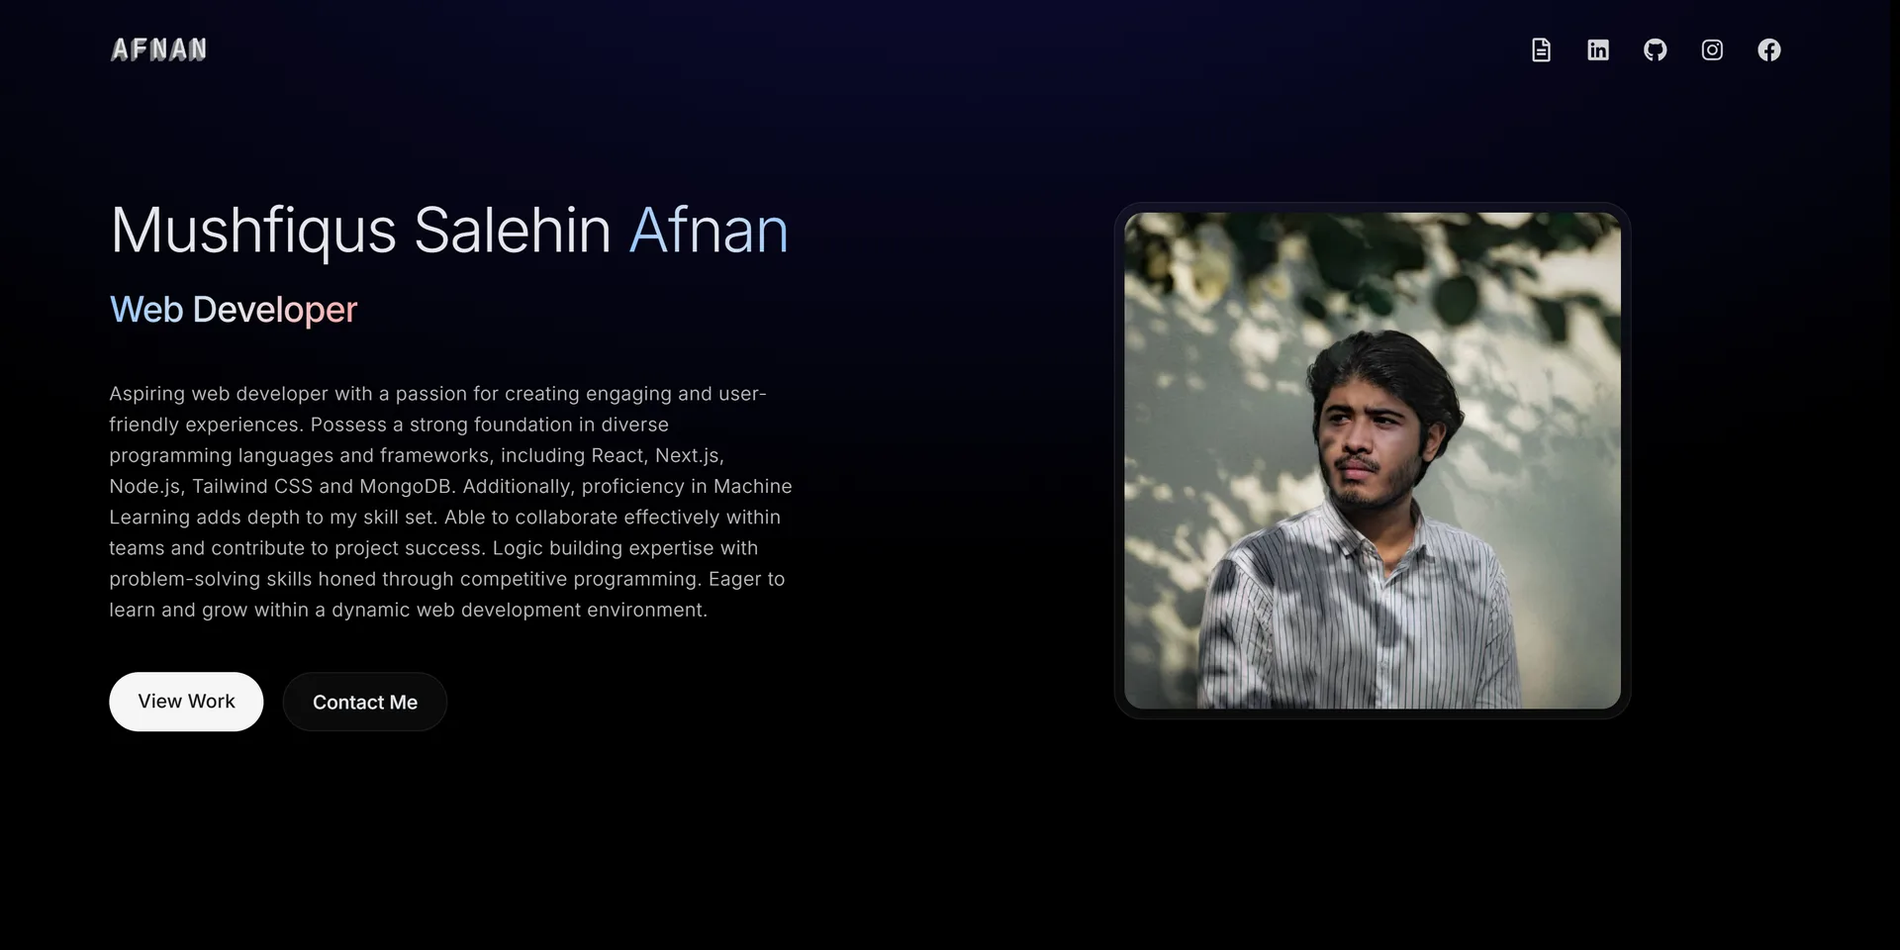
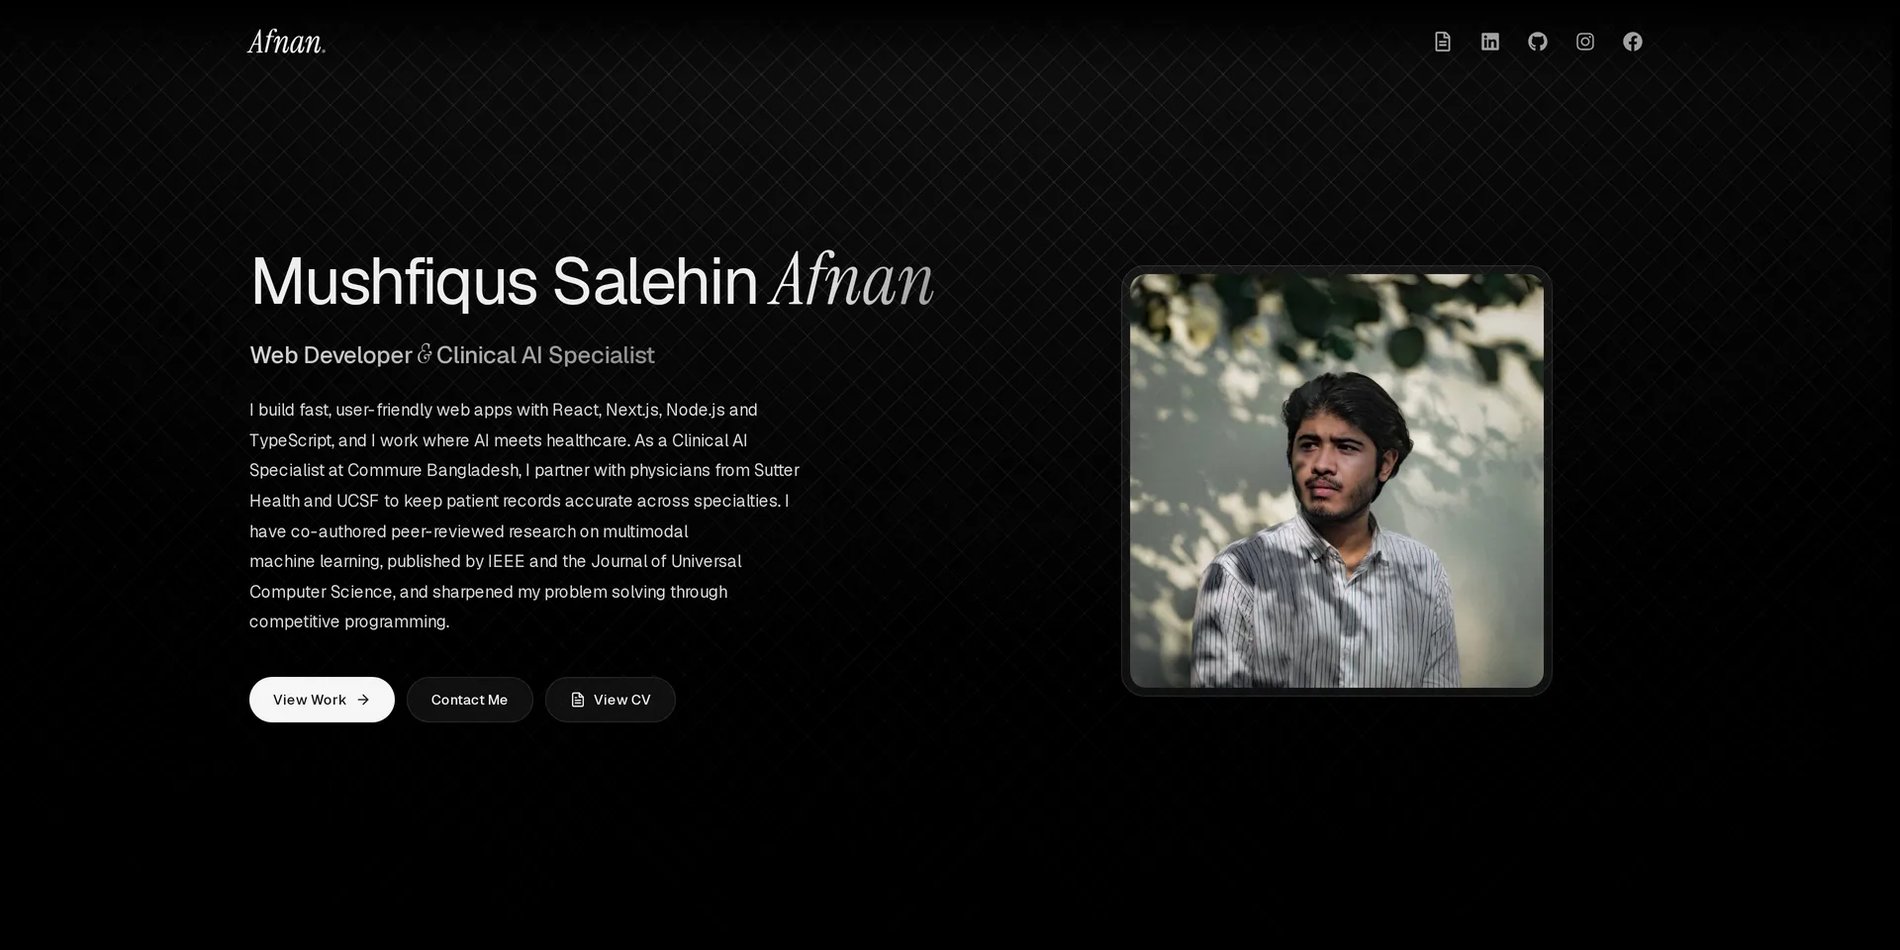
style: refine the type scale and colour tiers, refresh screenshots
Typography
- Section headings move to a larger medium weight with a numbered
  mono eyebrow above each one (01 — Introduction … 07 — Contact).
- Serif italic ampersand in the hero role line and the
  Certifications & Activities heading.
- Publication venues are set in the serif italic.
- Card titles brighten to neutral-50; mono labels share one
  size and tracking; the footer steps down a tier.
- Headings balance their lines and paragraphs avoid orphans.

Screenshots
- Portfolio card shows the current hero.
- Sepia card shows the rebuilt v2 app; its stack now lists
  Redux Toolkit and Tailwind CSS.

diff --git a/src/components/Projects.tsx b/src/components/Projects.tsx
@@ -50,7 +50,9 @@ const Projects = () => {
 
   return (
     <section id="projects" aria-labelledby="projects-heading" className="py-16 sm:py-20">
-      <SectionHeading id="projects-heading">Projects</SectionHeading>
+      <SectionHeading id="projects-heading" eyebrow="06 — Selected work">
+        Projects
+      </SectionHeading>
 
       <ul className="mx-auto grid max-w-6xl grid-cols-1 gap-8 md:grid-cols-2 lg:gap-12">
         <li data-reveal className="md:col-span-2">
@@ -64,9 +66,15 @@ const Projects = () => {
               />
             </div>
             <div className="flex grow flex-col p-6 sm:p-8 xl:justify-center xl:p-10">
-              <p className="mb-3 font-mono text-xs font-medium tracking-widest text-neutral-400 uppercase">Latest project</p>
-              <h3 className="mb-3 text-2xl font-semibold tracking-tight sm:text-3xl">{featured.title}</h3>
-              <p className="mb-6 max-w-2xl text-[0.9375rem] leading-relaxed text-neutral-400">{featured.description}</p>
+              <p className="mb-3 font-mono text-[0.6875rem] font-medium tracking-[0.16em] text-neutral-400 uppercase">
+                Latest project
+              </p>
+              <h3 className="mb-3 text-[1.75rem] leading-none font-medium tracking-[-0.02em] text-neutral-50 sm:text-[2rem]">
+                {featured.title}
+              </h3>
+              <p className="mb-6 max-w-2xl text-[0.9375rem] leading-relaxed text-pretty text-neutral-400">
+                {featured.description}
+              </p>
               <TechTags technologies={featured.technologies} />
               <ProjectLinks project={featured} />
             </div>
@@ -82,8 +90,10 @@ const Projects = () => {
             <article className="glass-card group flex h-full flex-col overflow-hidden rounded-3xl transition-shadow duration-500 hover:shadow-[0_0_30px_rgba(255,255,255,0.06)]">
               <ProjectPreview image={project.image} title={project.title} />
               <div className="flex grow flex-col p-6 sm:p-8">
-                <h3 className="mb-3 text-xl font-semibold tracking-tight">{project.title}</h3>
-                <p className="mb-6 grow text-[0.9375rem] leading-relaxed text-neutral-400">{project.description}</p>
+                <h3 className="mb-3 text-xl font-semibold tracking-tight text-balance text-neutral-50">{project.title}</h3>
+                <p className="mb-6 grow text-[0.9375rem] leading-relaxed text-pretty text-neutral-400">
+                  {project.description}
+                </p>
                 <TechTags technologies={project.technologies} />
                 <ProjectLinks project={project} />
               </div>
@@ -93,7 +103,10 @@ const Projects = () => {
       </ul>
 
       <div className="mx-auto mt-20 max-w-6xl sm:mt-24">
-        <h3 data-reveal="down" className="mb-10 text-center text-2xl font-semibold tracking-tight sm:mb-12 sm:text-3xl">
+        <h3
+          data-reveal="down"
+          className="mb-10 text-center text-2xl font-medium tracking-[-0.02em] text-neutral-50 sm:mb-12 sm:text-[1.75rem]"
+        >
           More on GitHub
         </h3>
         <ul className="grid grid-cols-1 gap-4 sm:grid-cols-2 sm:gap-6 lg:grid-cols-3">
@@ -105,7 +118,7 @@ const Projects = () => {
             >
               <article className="glass-card group relative flex h-full flex-col rounded-2xl p-6 transition-colors duration-300 hover:border-white/15 hover:bg-white/3">
                 <div className="mb-5 flex items-center gap-3">
-                  <FiFolder aria-hidden="true" className="size-6 text-neutral-300" />
+                  <FiFolder aria-hidden="true" className="size-6 text-neutral-400" />
                   {repo.team && (
                     <span className="rounded-full border border-neutral-700 px-2.5 py-0.5 text-[0.6875rem] font-medium text-neutral-400">
                       Team project
@@ -116,7 +129,7 @@ const Projects = () => {
                     className="ml-auto size-5 text-neutral-500 transition-[color,translate] duration-300 group-hover:translate-x-0.5 group-hover:-translate-y-0.5 group-hover:text-neutral-100"
                   />
                 </div>
-                <h4 className="mb-2 font-semibold tracking-tight text-neutral-100">
+                <h4 className="mb-2 font-semibold tracking-tight text-balance text-neutral-50">
                   {/* Stretched link: the whole card is clickable, but only the title is announced. */}
                   <a
                     href={repo.source}
@@ -128,8 +141,8 @@ const Projects = () => {
                     <span className="sr-only"> on GitHub</span>
                   </a>
                 </h4>
-                <p className="mb-5 grow text-sm leading-relaxed text-neutral-400">{repo.description}</p>
-                <ul className="flex flex-wrap gap-x-3 gap-y-1 font-mono text-[0.6875rem] text-neutral-400">
+                <p className="mb-5 grow text-sm leading-relaxed text-pretty text-neutral-400">{repo.description}</p>
+                <ul className="flex flex-wrap gap-x-3 gap-y-1 font-mono text-[0.6875rem] tracking-wide text-neutral-400">
                   {repo.technologies.map((tech) => (
                     <li key={tech}>{tech}</li>
                   ))}

diff --git a/src/components/Education.tsx b/src/components/Education.tsx
@@ -1,7 +1,7 @@
 import { FiAward, FiCamera, FiCode, FiGlobe } from "react-icons/fi";
 import { CREDENTIALS, EDUCATION, type Credential } from "../constants";
 import LinkPill from "./LinkPill";
-import SectionHeading from "./SectionHeading";
+import SectionHeading, { Amp } from "./SectionHeading";
 
 const ICONS: Record<Credential["kind"], typeof FiAward> = {
   certificate: FiAward,
@@ -13,14 +13,20 @@ const ICONS: Record<Credential["kind"], typeof FiAward> = {
 const Education = () => {
   return (
     <section id="education" aria-labelledby="education-heading" className="py-16 sm:py-20">
-      <SectionHeading id="education-heading">Education</SectionHeading>
+      <SectionHeading id="education-heading" eyebrow="04 — Academics">
+        Education
+      </SectionHeading>
       <div data-reveal className="mx-auto max-w-4xl">
         <article className="glass-card flex flex-col gap-3 rounded-3xl p-6 transition-colors hover:bg-white/3 sm:p-8 md:flex-row md:gap-8">
-          <p className="shrink-0 font-mono text-xs tracking-wider text-balance text-neutral-400 uppercase md:w-1/4 md:pt-1.5">{EDUCATION.period.replace(" – ", " – ")}</p>
+          <p className="shrink-0 font-mono text-[0.6875rem] tracking-[0.16em] text-balance text-neutral-400 uppercase md:w-1/4 md:pt-2">
+            {EDUCATION.period}
+          </p>
           <div className="md:w-3/4">
-            <h3 className="text-lg font-semibold tracking-tight text-neutral-200 sm:text-xl">{EDUCATION.degree}</h3>
+            <h3 className="text-lg font-semibold tracking-tight text-balance text-neutral-50 sm:text-xl">
+              {EDUCATION.degree}
+            </h3>
             <p className="mt-1 text-sm font-medium text-neutral-300 sm:text-base">{EDUCATION.school}</p>
-            <p className="mt-3 text-[0.9375rem] leading-relaxed text-neutral-400">{EDUCATION.description}</p>
+            <p className="mt-3 text-[0.9375rem] leading-relaxed text-pretty text-neutral-400">{EDUCATION.description}</p>
             <div className="mt-4">
               <LinkPill href={EDUCATION.certificate}>
                 Certificate<span className="sr-only">: {EDUCATION.degree}</span>
@@ -31,8 +37,11 @@ const Education = () => {
       </div>
 
       <div className="mx-auto mt-20 max-w-6xl sm:mt-24">
-        <h3 data-reveal="down" className="mb-10 text-center text-2xl font-semibold tracking-tight sm:mb-12 sm:text-3xl">
-          Certifications &amp; Activities
+        <h3
+          data-reveal="down"
+          className="mb-10 text-center text-2xl font-medium tracking-[-0.02em] text-neutral-50 sm:mb-12 sm:text-[1.75rem]"
+        >
+          Certifications <Amp className="text-neutral-500" /> Activities
         </h3>
         <ul className="grid grid-cols-1 gap-4 sm:grid-cols-2 sm:gap-6 lg:grid-cols-3">
           {CREDENTIALS.map((credential, index) => {
@@ -44,8 +53,8 @@ const Education = () => {
                 style={{ "--reveal-delay": `${(index % 3) * 100}ms` } as React.CSSProperties}
               >
                 <article className="glass-card flex h-full flex-col rounded-2xl p-6">
-                  <Icon aria-hidden="true" className="mb-5 size-6 text-neutral-300" />
-                  <h4 className="mb-1 font-semibold tracking-tight text-neutral-100">{credential.title}</h4>
+                  <Icon aria-hidden="true" className="mb-5 size-6 text-neutral-400" />
+                  <h4 className="mb-1 font-semibold tracking-tight text-balance text-neutral-50">{credential.title}</h4>
                   <p className="grow text-sm leading-relaxed text-neutral-400">{credential.detail}</p>
                   {credential.links.length > 0 && (
                     <div className="mt-5 flex flex-wrap gap-2">

diff --git a/src/components/Publication.tsx b/src/components/Publication.tsx
@@ -6,14 +6,20 @@ import SectionHeading from "./SectionHeading";
 const Publication = () => {
   return (
     <section id="publications" aria-labelledby="publications-heading" className="py-16 sm:py-20">
-      <SectionHeading id="publications-heading">Publications</SectionHeading>
+      <SectionHeading id="publications-heading" eyebrow="05 — Research">
+        Publications
+      </SectionHeading>
       <ol className="mx-auto max-w-4xl space-y-6 sm:space-y-8">
         {PUBLICATIONS.map((pub, index) => (
           <li key={pub.title} data-reveal style={{ "--reveal-delay": `${index * 100}ms` } as React.CSSProperties}>
             <article className="glass-card flex flex-col gap-3 rounded-3xl p-6 transition-colors hover:bg-white/3 sm:p-8 md:flex-row md:gap-8">
-              <p className="shrink-0 font-mono text-xs tracking-wider text-balance text-neutral-400 uppercase md:w-1/4 md:pt-1.5">{pub.date}</p>
+              <p className="shrink-0 font-mono text-[0.6875rem] tracking-[0.16em] text-balance text-neutral-400 uppercase md:w-1/4 md:pt-2">
+                {pub.date}
+              </p>
               <div className="md:w-3/4">
-                <h3 className="text-lg leading-snug font-semibold tracking-tight text-neutral-200 sm:text-xl">{pub.title}</h3>
+                <h3 className="text-lg leading-snug font-semibold tracking-tight text-balance text-neutral-50 sm:text-xl">
+                  {pub.title}
+                </h3>
                 <p className="mt-2 text-sm text-neutral-400">
                   {pub.authors.map((author, i) => (
                     <Fragment key={author}>
@@ -22,8 +28,8 @@ const Publication = () => {
                     </Fragment>
                   ))}
                 </p>
-                <p className="mt-1 text-sm text-neutral-400 italic">{pub.venue}</p>
-                <p className="mt-3 text-[0.9375rem] leading-relaxed text-neutral-400">{pub.description}</p>
+                <p className="mt-1.5 font-serif text-[1.0625rem] leading-snug text-neutral-400 italic">{pub.venue}</p>
+                <p className="mt-3 text-[0.9375rem] leading-relaxed text-pretty text-neutral-400">{pub.description}</p>
                 <div className="mt-4 flex flex-wrap items-center gap-2">
                   <span className="rounded-full border border-neutral-700 bg-neutral-800/60 px-3 py-1 text-xs font-medium text-neutral-100">
                     {pub.publisher}

diff --git a/src/components/Experience.tsx b/src/components/Experience.tsx
@@ -5,7 +5,9 @@ import SectionHeading from "./SectionHeading";
 const Experience = () => {
   return (
     <section id="experience" aria-labelledby="experience-heading" className="py-16 sm:py-20">
-      <SectionHeading id="experience-heading">Experience</SectionHeading>
+      <SectionHeading id="experience-heading" eyebrow="03 — Career">
+        Experience
+      </SectionHeading>
       <ol className="mx-auto max-w-4xl space-y-6 sm:space-y-8">
         {EXPERIENCES.map((experience, index) => (
           <li
@@ -14,11 +16,17 @@ const Experience = () => {
             style={{ "--reveal-delay": `${index * 100}ms` } as React.CSSProperties}
           >
             <article className="glass-card flex flex-col gap-3 rounded-3xl p-6 transition-colors hover:bg-white/3 sm:p-8 md:flex-row md:gap-8">
-              <p className="shrink-0 font-mono text-xs tracking-wider text-balance text-neutral-400 uppercase md:w-1/4 md:pt-1.5">{experience.year.replace(" – ", " – ")}</p>
+              <p className="shrink-0 font-mono text-[0.6875rem] tracking-[0.16em] text-balance text-neutral-400 uppercase md:w-1/4 md:pt-2">
+                {experience.year}
+              </p>
               <div className="md:w-3/4">
-                <h3 className="text-lg font-semibold tracking-tight text-neutral-200 sm:text-xl">{experience.role}</h3>
+                <h3 className="text-lg font-semibold tracking-tight text-balance text-neutral-50 sm:text-xl">
+                  {experience.role}
+                </h3>
                 <p className="mt-1 text-sm font-medium text-neutral-300 sm:text-base">{experience.company}</p>
-                <p className="mt-3 text-[0.9375rem] leading-relaxed text-neutral-400">{experience.description}</p>
+                <p className="mt-3 text-[0.9375rem] leading-relaxed text-pretty text-neutral-400">
+                  {experience.description}
+                </p>
                 <ul className="mt-4 flex flex-wrap gap-2">
                   {experience.technologies.map((tech) => (
                     <li

diff --git a/src/components/About.tsx b/src/components/About.tsx
@@ -17,24 +17,24 @@ const FACTS = [
 const About = () => {
   return (
     <section id="about" aria-labelledby="about-heading" className="py-16 sm:py-20">
-      <SectionHeading id="about-heading">
+      <SectionHeading id="about-heading" eyebrow="01 — Introduction">
         About <Accent className="text-neutral-500">me</Accent>
       </SectionHeading>
       <div className="mx-auto grid max-w-6xl items-center gap-10 lg:grid-cols-5 lg:gap-12">
         <p
           data-reveal="left"
-          className="text-base leading-7 text-neutral-300/90 lg:col-span-3 lg:text-lg lg:leading-8"
+          className="text-base leading-7 text-pretty text-neutral-300 lg:col-span-3 lg:text-lg lg:leading-8"
         >
           {ABOUT_TEXT}
         </p>
         <dl data-reveal="right" className="grid grid-cols-2 gap-3 sm:gap-4 lg:col-span-2">
           {FACTS.map(({ icon: Icon, label, value, detail }) => (
             <div key={label} className="glass-card flex flex-col rounded-2xl p-4 sm:p-5">
-              <dt className="mb-3 flex items-center gap-2 font-mono text-[0.6875rem] font-medium tracking-widest text-neutral-400 uppercase">
-                <Icon aria-hidden="true" className="size-4 text-neutral-400" />
+              <dt className="mb-3 flex items-center gap-2 font-mono text-[0.6875rem] font-medium tracking-[0.16em] text-neutral-400 uppercase">
+                <Icon aria-hidden="true" className="size-4 text-neutral-500" />
                 {label}
               </dt>
-              <dd className="leading-snug font-semibold tracking-tight text-neutral-100">{value}</dd>
+              <dd className="leading-snug font-semibold tracking-tight text-balance text-neutral-50">{value}</dd>
               {detail && <dd className="mt-1 text-sm text-neutral-400">{detail}</dd>}
             </div>
           ))}

diff --git a/src/components/SectionHeading.tsx b/src/components/SectionHeading.tsx
@@ -1,17 +1,25 @@
 type Props = {
   id: string;
+  /** Small numbered label above the heading, e.g. "01 — Introduction". */
+  eyebrow?: string;
   children: React.ReactNode;
 };
 
-const SectionHeading = ({ id, children }: Props) => {
+const SectionHeading = ({ id, eyebrow, children }: Props) => {
   return (
-    <h2
-      id={id}
-      data-reveal="down"
-      className="mb-12 text-center text-3xl font-semibold tracking-[-0.03em] sm:mb-16 sm:text-4xl xl:text-[2.75rem]"
-    >
-      {children}
-    </h2>
+    <div data-reveal="down" className="mb-12 text-center sm:mb-16">
+      {eyebrow && (
+        <p aria-hidden="true" className="mb-4 font-mono text-[0.6875rem] tracking-[0.2em] text-neutral-500 uppercase">
+          {eyebrow}
+        </p>
+      )}
+      <h2
+        id={id}
+        className="text-[2.125rem] leading-none font-medium tracking-[-0.035em] text-balance text-neutral-50 sm:text-[2.625rem] xl:text-[3rem]"
+      >
+        {children}
+      </h2>
+    </div>
   );
 };
 
@@ -20,6 +28,11 @@ export const Accent = ({ children, className = "" }: { children: React.ReactNode
   <span className={`pr-[0.06em] font-serif text-[1.1em] font-normal tracking-normal italic ${className}`}>
     {children}
   </span>
+);
+
+// Serif italic ampersand: a small typographic accent inside sans-serif lines.
+export const Amp = ({ className = "" }: { className?: string }) => (
+  <span className={`font-serif text-[1.15em] leading-none font-normal tracking-normal italic ${className}`}>&amp;</span>
 );
 
 export default SectionHeading;

diff --git a/src/components/Hero.tsx b/src/components/Hero.tsx
@@ -2,6 +2,7 @@ import Image from "next/image";
 import { FiArrowRight, FiFileText } from "react-icons/fi";
 import profilePic from "../assets/afnanProfile.webp";
 import { HERO_CONTENT, NAME, RESUME_PDF, ROLE } from "../constants";
+import { Amp } from "./SectionHeading";
 
 // Hero lines all start on the first frame (nothing waits to paint, which keeps
 // LCP fast) and cascade in through increasing durations instead of delays.
@@ -10,6 +11,8 @@ const duration = (ms: number, delay = 0) =>
 
 const secondaryButton =
   "glass inline-flex items-center gap-2 rounded-full px-5 py-3 text-sm font-medium transition-colors hover:bg-white/10 sm:px-6";
+
+const [roleStart, roleEnd] = ROLE.split(" & ");
 
 const Hero = () => {
   return (
@@ -33,10 +36,16 @@ const Hero = () => {
             className="enter-left text-gradient-alt text-lg font-medium tracking-tight sm:text-xl lg:text-2xl"
             style={duration(900)}
           >
-            {ROLE}
+            {roleEnd ? (
+              <>
+                {roleStart} <Amp /> {roleEnd}
+              </>
+            ) : (
+              ROLE
+            )}
           </p>
           <p
-            className="enter-left mt-6 mb-10 max-w-xl text-left text-base leading-7 text-neutral-300/90 lg:text-[1.0625rem] lg:leading-[1.8]"
+            className="enter-left mt-6 mb-10 max-w-xl text-left text-base leading-7 text-pretty text-neutral-300 lg:text-[1.0625rem] lg:leading-[1.8]"
             style={duration(1100)}
           >
             {HERO_CONTENT}

diff --git a/src/components/Contact.tsx b/src/components/Contact.tsx
@@ -8,14 +8,16 @@ const iconClass = "glass flex size-10 shrink-0 items-center justify-center round
 const Contact = () => {
   return (
     <section id="contact" aria-labelledby="contact-heading" className="border-t border-neutral-800 py-16 sm:py-20">
-      <SectionHeading id="contact-heading">
+      <SectionHeading id="contact-heading" eyebrow="07 — Contact">
         Get in <Accent className="text-neutral-500">touch</Accent>
       </SectionHeading>
 
       <div className="mx-auto grid max-w-6xl gap-12 lg:grid-cols-2 lg:gap-20">
         <div data-reveal="left" className="flex flex-col justify-center text-center lg:text-left">
-          <h3 className="mb-4 text-2xl font-semibold tracking-tight sm:text-3xl">Let&apos;s work together!</h3>
-          <p className="mx-auto mb-8 max-w-md text-base leading-7 text-neutral-400 lg:mx-0">
+          <h3 className="mb-4 text-2xl font-medium tracking-[-0.02em] text-balance text-neutral-50 sm:text-[1.75rem]">
+            Let&apos;s work together!
+          </h3>
+          <p className="mx-auto mb-8 max-w-md text-base leading-7 text-pretty text-neutral-400 lg:mx-0">
             Feel free to reach out if you&apos;re looking for a developer, have a question, or just want to connect.
           </p>
           <ul className="mx-auto w-fit space-y-4 text-left text-[0.9375rem] text-neutral-300 lg:mx-0">

diff --git a/src/constants/index.ts b/src/constants/index.ts
@@ -179,8 +179,8 @@ export const PROJECTS: Project[] = [
   {
     title: "Sepia",
     description:
-      "A MERN stack social media app. Users can sign up, sign in, and create, like and delete their own posts, with changes showing up in real time on a fully responsive layout.",
-    technologies: ["MongoDB", "Express.js", "React", "Redux", "Node.js", "Material UI"],
+      "A MERN stack photo-sharing app with email and Google sign-in. Users create, edit, like and delete posts with a photo, caption and tags in an infinite-scrolling feed, with light and dark themes on a fully responsive layout.",
+    technologies: ["MongoDB", "Express.js", "React", "Redux Toolkit", "Node.js", "Tailwind CSS"],
     image: sepia,
     live: "https://sepia.onrender.com/",
     source: "https://github.com/salehinafnan/sepia",

diff --git a/src/components/Technologies.tsx b/src/components/Technologies.tsx
@@ -42,7 +42,9 @@ const TECHNOLOGIES = [
 const Technologies = () => {
   return (
     <section id="technologies" aria-labelledby="technologies-heading" className="py-16 sm:py-20 lg:py-24">
-      <SectionHeading id="technologies-heading">Technologies</SectionHeading>
+      <SectionHeading id="technologies-heading" eyebrow="02 — Toolkit">
+        Technologies
+      </SectionHeading>
       <ul className="mx-auto grid w-fit grid-cols-4 gap-x-2 gap-y-6 sm:grid-cols-8 sm:gap-x-3 lg:gap-5">
         {TECHNOLOGIES.map(({ name, Icon, color, url, dur }, index) => (
           <li key={name} data-reveal style={{ "--reveal-delay": `${index * 40}ms` } as React.CSSProperties}>

diff --git a/src/app/page.tsx b/src/app/page.tsx
@@ -31,7 +31,7 @@ export default function Home() {
         <Contact />
       </main>
 
-      <footer className="mt-auto border-t border-neutral-800 py-8 text-center text-sm text-neutral-400">
+      <footer className="mt-auto border-t border-neutral-800 py-8 text-center text-[0.8125rem] text-neutral-500">
         <p>
           © {new Date().getFullYear()} {NAME}. All rights reserved.
         </p>

diff --git a/src/app/globals.css b/src/app/globals.css
@@ -35,6 +35,18 @@
     scroll-margin-top: 1.5rem;
   }
 
+  /* Headings break into even lines; paragraphs avoid orphans on the last line. */
+  h1,
+  h2,
+  h3,
+  h4 {
+    text-wrap: balance;
+  }
+
+  p {
+    text-wrap: pretty;
+  }
+
   :focus-visible {
     outline: 2px solid #d4d4d4;
     outline-offset: 3px;
